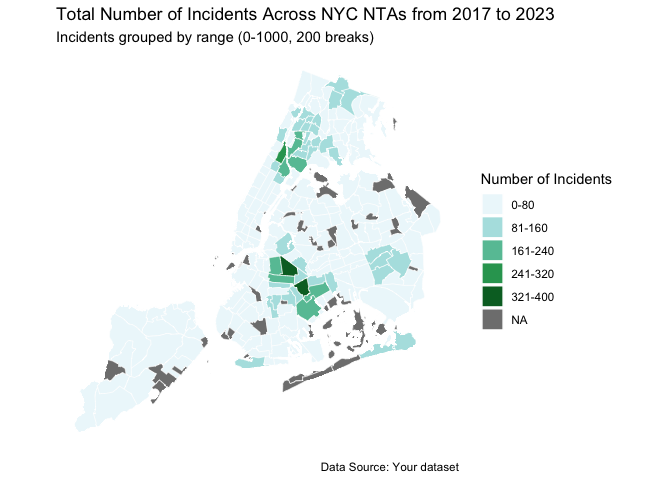
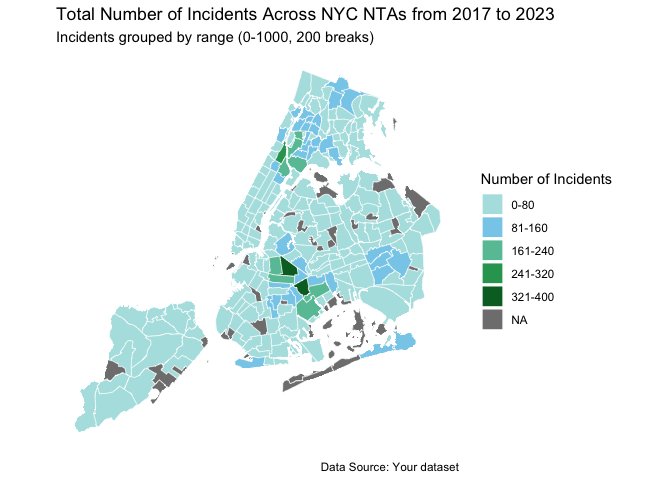
change the color of the graph

Changed region(s): [[0.0938, 0.1562, 0.6562, 0.9062], [0.7188, 0.4062, 0.75, 0.5]]

diff --git a/boro_nta.md b/boro_nta.md
@@ -158,8 +158,8 @@ ggplot(data = nta_map_data) +
   geom_sf(aes(fill = Incident_Range), color = "white", size = 0.2) +
   scale_fill_manual(
     values = c(
-      "0-80" = "#edf8fb",
-      "81-160" = "#b2e2e2",
+      "0-80" = "#b2e2e2",
+      "81-160" = "skyblue",
       "161-240" = "#66c2a4",
       "241-320" = "#2ca25f",
       "321-400" = "#006d2c"
